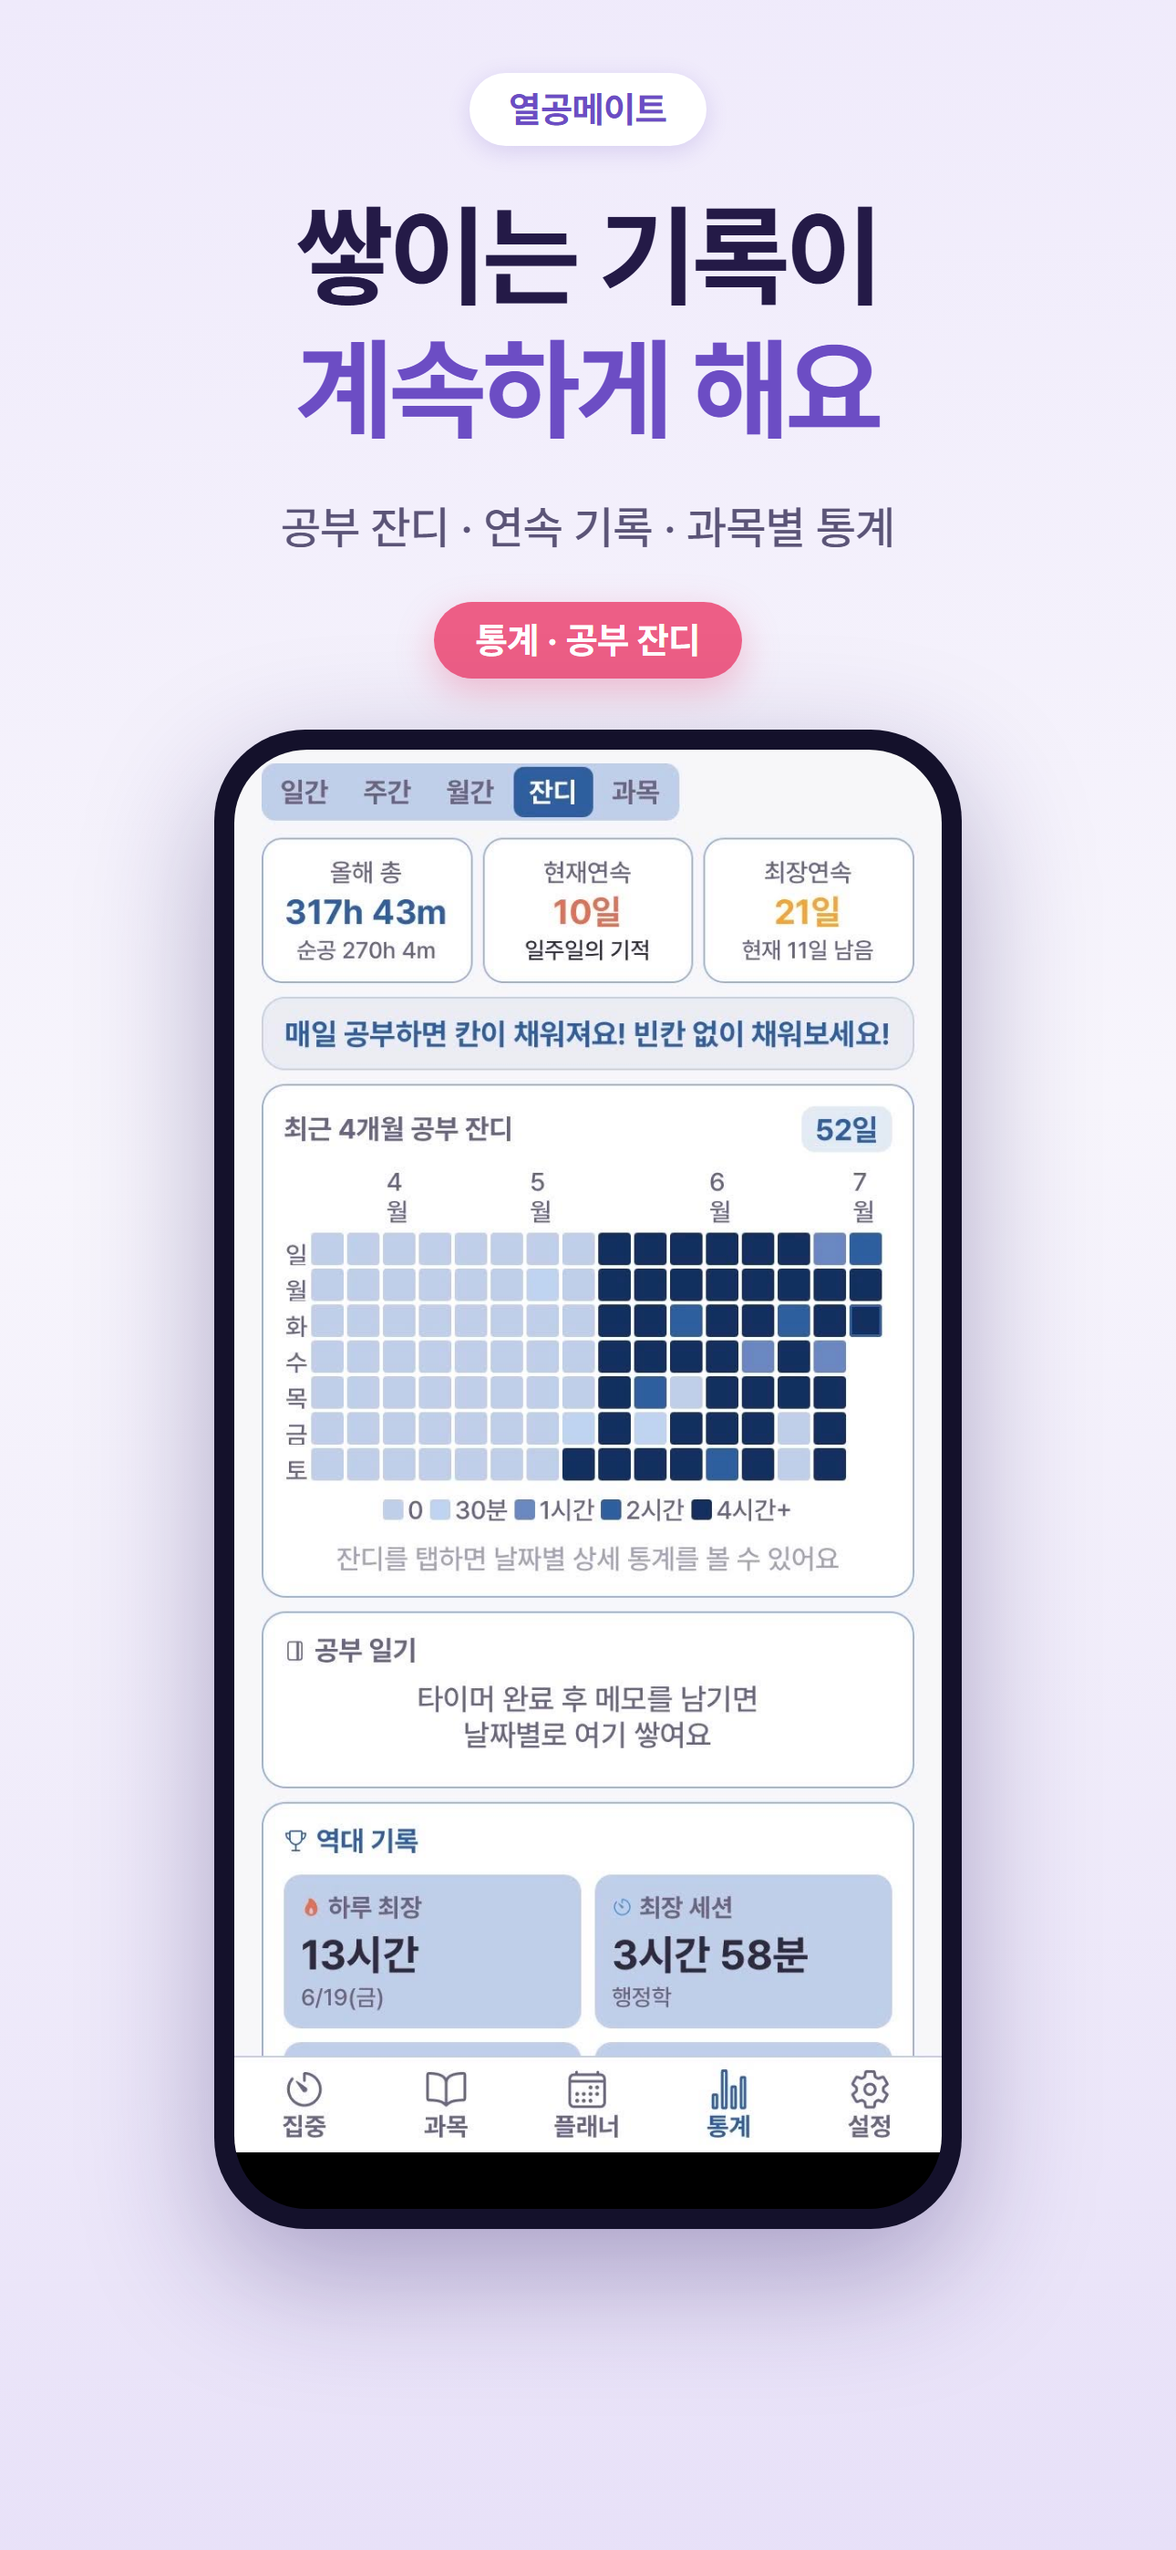
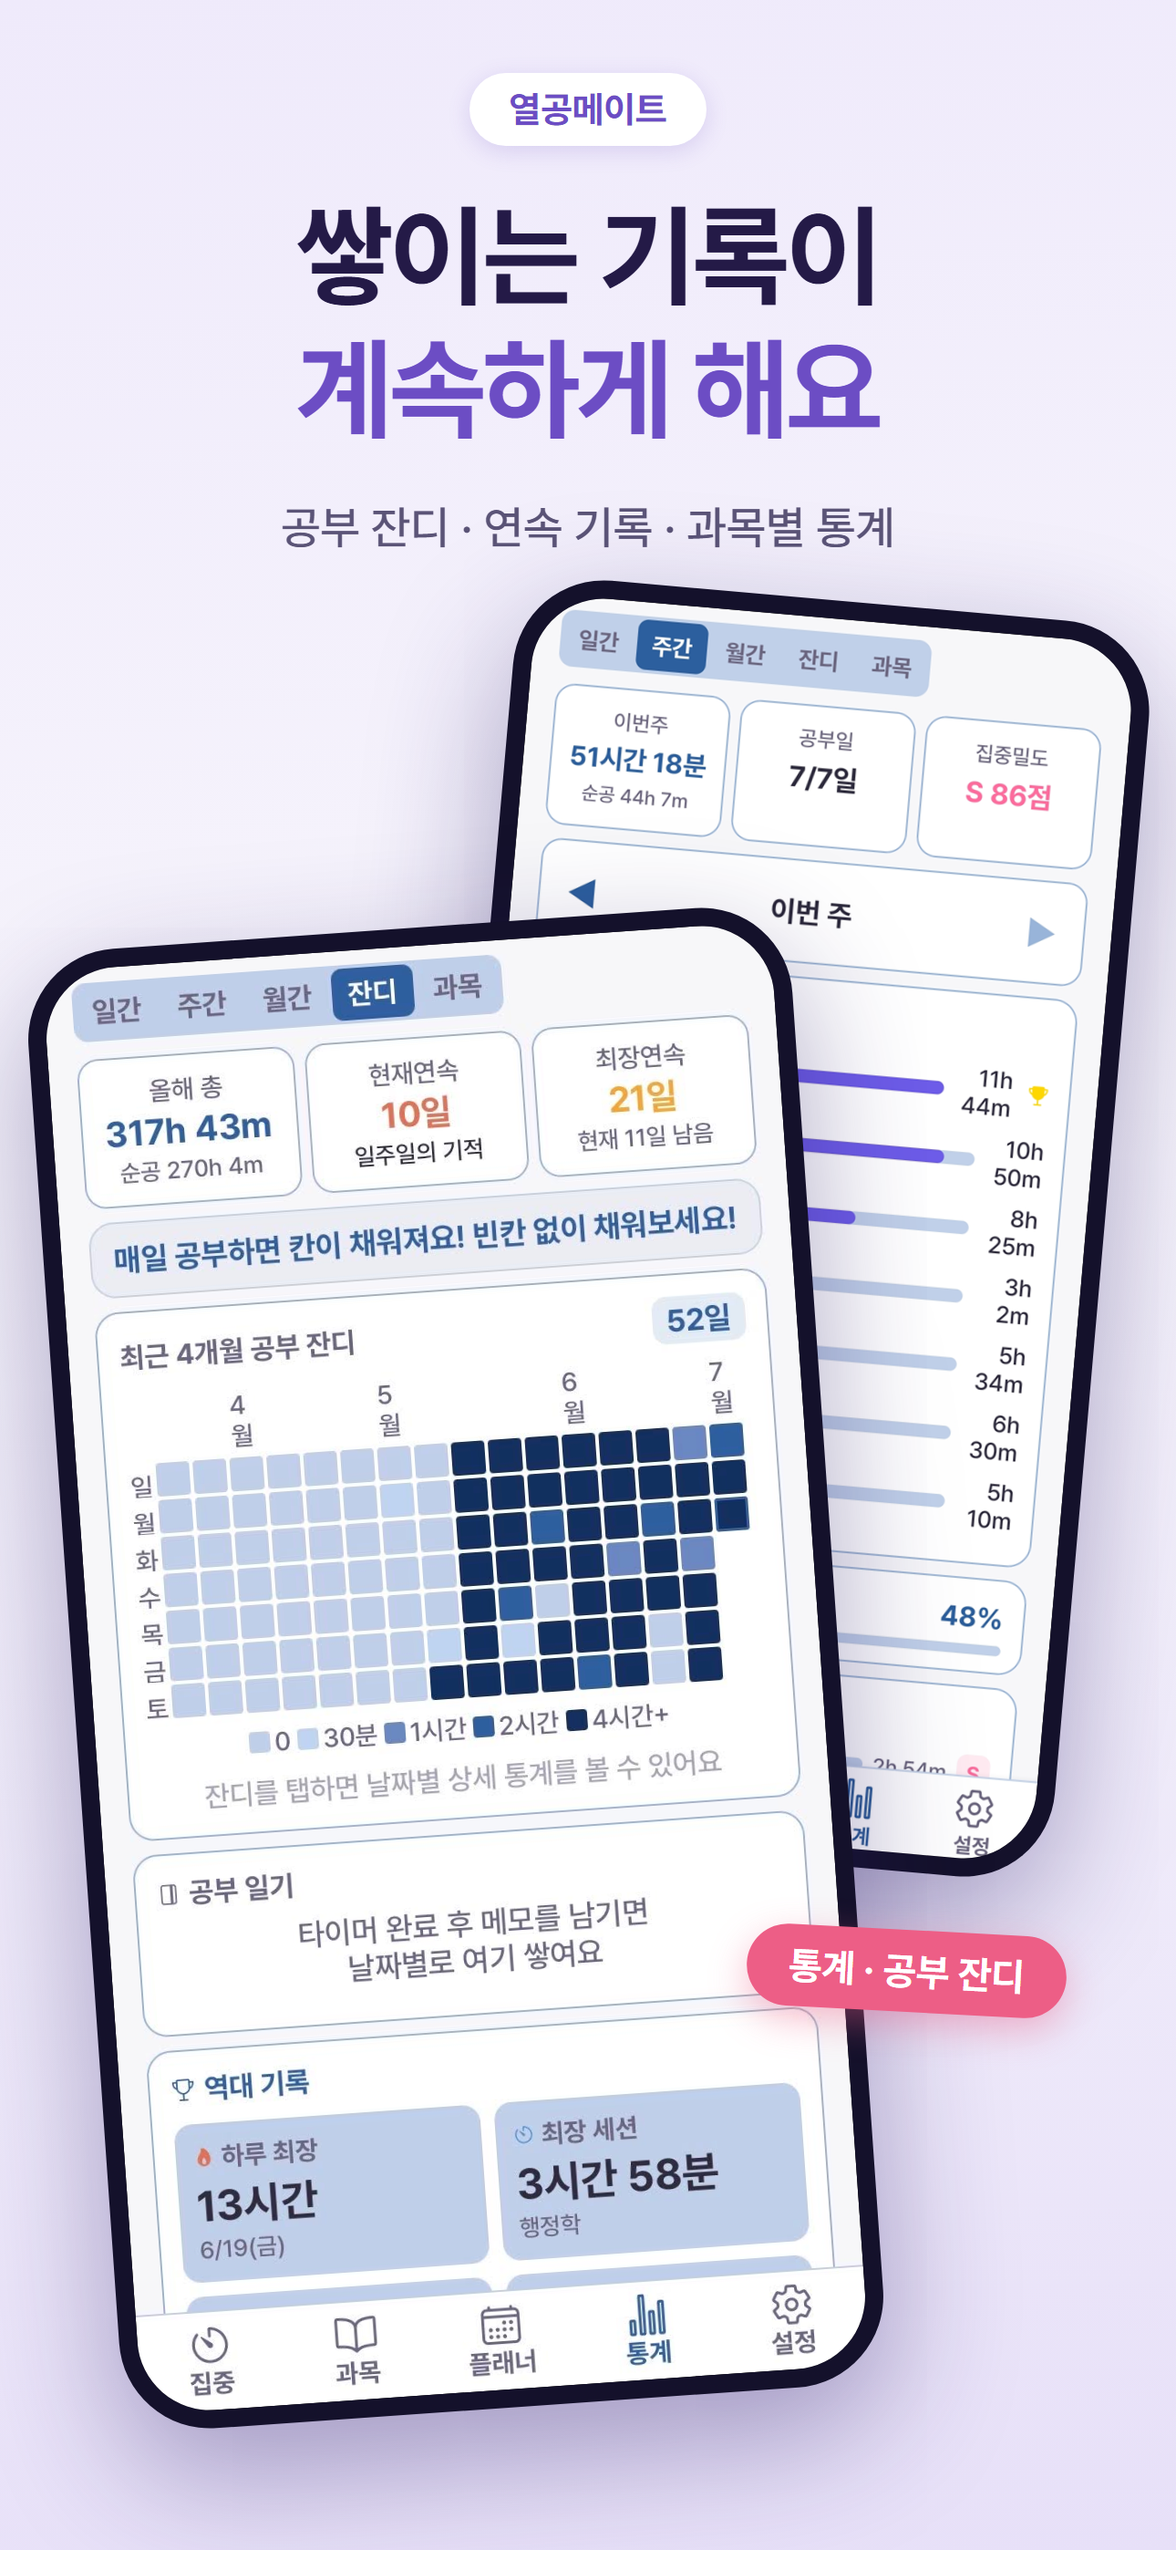
스토어 스크린샷: iOS 05~09를 2장 겹침 구도로 통일 (사용자 요청)
01~04만 겹침이고 05~09는 단독 폰이었다. 9장 전체를 같은 구도로 맞춘다.

각 장에 짝이 되는 두 번째 화면을 붙였다:
- 05 집중 탭 + 시험 D-Day/준비 할 일
- 06 공부 잔디 + 주간 통계 (부제의 '과목별 통계'가 이제 실제로 보인다)
- 07 홈 위젯 5종 + 잠금화면 위젯 ← 부제가 '홈 화면 · 잠금화면'이라 정확히 맞는 조합
- 08 타이머 종류 선택 + 실행 중 화면
- 09 공개 라운지 + 교실 테마 좌석 (좌석 도면이 여러 테마라는 게 드러난다)

구도는 shot3의 검증된 배치를 따랐다: 뒤 폰 right/rotate(5deg), 앞 폰
left/rotate(-4deg), 배지는 뒤 폰 아래에 절대 배치.
화면 높이는 캡처 비율로 계산해 레터박스나 잘림이 없게 했다(예: 800*2.034=1627).

★src_shot5~9는 iOS 전용이다★ — Play는 src_play5~8을 따로 쓰므로 이번 변경의
영향을 받지 않는다. 특히 07의 잠금화면 위젯 조합은 Play에 그 기능이 없으므로
src_play7.html로 가져가면 안 된다(주석으로 남김).

※재캡처 대기 항목은 그대로 남아 있다: 07의 'ㄹㄹ', 09의 '울트라집중' 좌석
태그, 06의 두부 문자 — 전부 앱 캡처 안에 박혀 있어 HTML로는 못 고친다.

diff --git a/screenshots/store_v2/src_shot7.html b/screenshots/store_v2/src_shot7.html
@@ -2,6 +2,9 @@
 <html>
 <head>
 <meta charset="utf-8">
+<!-- iOS 전용(Play는 src_play7.html). 2026-08-01: 단독 폰 → 2장 겹침으로 개편.
+     부제가 '홈 화면 · 잠금화면'이므로 홈 위젯 + 잠금화면 위젯을 함께 보여준다.
+     ※Play에는 잠금화면 위젯이 없으므로 이 조합을 src_play7.html로 가져가지 말 것 -->
 <style>
   @font-face { font-family: 'P'; src: url('file:///C:/suneung-timer-native/assets/fonts/Pretendard-Bold.ttf'); font-weight: 700; }
   @font-face { font-family: 'P'; src: url('file:///C:/suneung-timer-native/assets/fonts/Pretendard-Medium.ttf'); font-weight: 500; }
@@ -18,21 +21,33 @@
     color: #241A47; text-align: center; font-weight: 700; }
   h1 .accent { color: #6C4DC4; }
   .sub { margin-top: 40px; font-size: 50px; font-weight: 500; color: #5B5477; text-align: center; line-height: 1.5; }
-  .badge { margin-top: 44px; background: #ED5E86; color: #fff; font-size: 40px; font-weight: 700;
-    padding: 18px 46px; border-radius: 999px; box-shadow: 0 14px 40px rgba(237,94,134,0.35); }
-  .phone {
-    margin-top: 300px; width: 892px; border-radius: 100px; background: #14112B; padding: 22px;
-    box-shadow: 0 50px 140px rgba(40,25,100,0.34);
-  }
-  .screen { border-radius: 80px; overflow: hidden; width: 848px; height: 1390px; background: #6a4a8a; }
+  .stage { position: relative; width: 1290px; flex: 1; }
+  .phone { position: absolute; border-radius: 100px; background: #14112B; padding: 20px;
+    box-shadow: 0 50px 140px rgba(40,25,100,0.38); }
+  .screen { border-radius: 80px; overflow: hidden; background: #6a4a8a; }
   .screen img { width: 100%; display: block; }
+  /* 뒤: 잠금화면 위젯 (660*1.935 = 1277) */
+  .p-lock { right: 80px; top: 60px; transform: rotate(5deg); }
+  .p-lock .screen { width: 660px; height: 1277px; }
+  /* 앞: 홈 화면 위젯 5종 (800*1.638 = 1310) */
+  .p-home { left: 80px; top: 480px; transform: rotate(-4deg); }
+  .p-home .screen { width: 800px; height: 1310px; }
+  .badge {
+    position: absolute; right: 120px; top: 1470px;
+    background: #ED5E86; color: #fff; font-size: 42px; font-weight: 700;
+    padding: 20px 46px; border-radius: 999px; box-shadow: 0 14px 40px rgba(237,94,134,0.4);
+    transform: rotate(3deg);
+  }
 </style>
 </head>
 <body>
   <div class="brand">열공메이트</div>
   <h1>앱을 열지 않아도<br><span class="accent">공부 중</span></h1>
   <div class="sub">홈 화면 · 잠금화면 위젯 5종, 위젯에서 바로 시작</div>
-  <div class="badge">홈/잠금화면 위젯</div>
-  <div class="phone"><div class="screen"><img src="file:///C:/suneung-timer-native/screenshots/ios_widgets_home5.jpg"></div></div>
+  <div class="stage">
+    <div class="phone p-lock"><div class="screen"><img src="file:///C:/suneung-timer-native/screenshots/ios_lockscreen.jpg"></div></div>
+    <div class="phone p-home"><div class="screen"><img src="file:///C:/suneung-timer-native/screenshots/ios_widgets_home5.jpg"></div></div>
+    <div class="badge">홈/잠금화면 위젯</div>
+  </div>
 </body>
 </html>

diff --git a/screenshots/store_v2/src_shot9.html b/screenshots/store_v2/src_shot9.html
@@ -2,6 +2,8 @@
 <html>
 <head>
 <meta charset="utf-8">
+<!-- iOS 전용(Play에는 09번이 없다). 2026-08-01: 단독 폰 → 2장 겹침으로 개편.
+     좌석 도면 3테마 중 라운지 + 교실을 함께 보여 '테마가 여러 개'라는 걸 드러낸다 -->
 <style>
   @font-face { font-family: 'P'; src: url('file:///C:/suneung-timer-native/assets/fonts/Pretendard-Bold.ttf'); font-weight: 700; }
   @font-face { font-family: 'P'; src: url('file:///C:/suneung-timer-native/assets/fonts/Pretendard-Medium.ttf'); font-weight: 500; }
@@ -18,21 +20,33 @@
     color: #241A47; text-align: center; font-weight: 700; }
   h1 .accent { color: #6C4DC4; }
   .sub { margin-top: 40px; font-size: 50px; font-weight: 500; color: #5B5477; text-align: center; line-height: 1.5; }
-  .badge { margin-top: 44px; background: #ED5E86; color: #fff; font-size: 40px; font-weight: 700;
-    padding: 18px 46px; border-radius: 999px; box-shadow: 0 14px 40px rgba(237,94,134,0.35); }
-  .phone {
-    margin-top: 52px; width: 800px; border-radius: 100px; background: #14112B; padding: 22px;
-    box-shadow: 0 50px 140px rgba(40,25,100,0.34);
-  }
-  .screen { border-radius: 80px; overflow: hidden; width: 756px; height: 1620px; background: #000; }
+  .stage { position: relative; width: 1290px; flex: 1; }
+  .phone { position: absolute; border-radius: 100px; background: #14112B; padding: 20px;
+    box-shadow: 0 50px 140px rgba(40,25,100,0.38); }
+  .screen { border-radius: 80px; overflow: hidden; background: #000; }
   .screen img { width: 100%; display: block; }
+  /* 뒤: 교실 테마 좌석 (660*2.144 = 1415) */
+  .p-class { right: 80px; top: 30px; transform: rotate(5deg); }
+  .p-class .screen { width: 660px; height: 1415px; }
+  /* 앞: 공개 라운지 좌석 (800*2.144 = 1715) */
+  .p-lounge { left: 80px; top: 380px; transform: rotate(-4deg); }
+  .p-lounge .screen { width: 800px; height: 1715px; }
+  .badge {
+    position: absolute; right: 120px; top: 1560px;
+    background: #ED5E86; color: #fff; font-size: 42px; font-weight: 700;
+    padding: 20px 46px; border-radius: 999px; box-shadow: 0 14px 40px rgba(237,94,134,0.4);
+    transform: rotate(3deg);
+  }
 </style>
 </head>
 <body>
   <div class="brand">열공메이트</div>
   <h1>혼자여도 함께,<br><span class="accent">같이 공부해요</span></h1>
   <div class="sub">실시간 스터디룸에서 좌석에 앉아 함께 집중</div>
-  <div class="badge">실시간 스터디룸</div>
-  <div class="phone"><div class="screen"><img src="file:///C:/suneung-timer-native/screenshots/cap-studyroom-lounge.png"></div></div>
+  <div class="stage">
+    <div class="phone p-class"><div class="screen"><img src="file:///C:/suneung-timer-native/screenshots/cap-studyroom-class.png"></div></div>
+    <div class="phone p-lounge"><div class="screen"><img src="file:///C:/suneung-timer-native/screenshots/cap-studyroom-lounge.png"></div></div>
+    <div class="badge">실시간 스터디룸</div>
+  </div>
 </body>
 </html>

diff --git a/screenshots/store_v2/src_shot5.html b/screenshots/store_v2/src_shot5.html
@@ -2,6 +2,7 @@
 <html>
 <head>
 <meta charset="utf-8">
+<!-- iOS 전용(Play는 src_play5.html). 2026-08-01: 단독 폰 → 2장 겹침으로 개편 -->
 <style>
   @font-face { font-family: 'P'; src: url('file:///C:/suneung-timer-native/assets/fonts/Pretendard-Bold.ttf'); font-weight: 700; }
   @font-face { font-family: 'P'; src: url('file:///C:/suneung-timer-native/assets/fonts/Pretendard-Medium.ttf'); font-weight: 500; }
@@ -18,21 +19,33 @@
     color: #241A47; text-align: center; font-weight: 700; }
   h1 .accent { color: #6C4DC4; }
   .sub { margin-top: 40px; font-size: 50px; font-weight: 500; color: #5B5477; text-align: center; line-height: 1.5; }
-  .badge { margin-top: 44px; background: #ED5E86; color: #fff; font-size: 40px; font-weight: 700;
-    padding: 18px 46px; border-radius: 999px; box-shadow: 0 14px 40px rgba(237,94,134,0.35); }
-  .phone {
-    margin-top: 56px; width: 820px; border-radius: 100px; background: #14112B; padding: 22px;
-    box-shadow: 0 50px 140px rgba(40,25,100,0.34);
-  }
-  .screen { border-radius: 80px; overflow: hidden; width: 776px; height: 1600px; background: #000; }
+  .stage { position: relative; width: 1290px; flex: 1; }
+  .phone { position: absolute; border-radius: 100px; background: #14112B; padding: 20px;
+    box-shadow: 0 50px 140px rgba(40,25,100,0.38); }
+  .screen { border-radius: 80px; overflow: hidden; background: #000; }
   .screen img { width: 100%; display: block; }
+  /* 뒤: 시험 D-Day + 준비 할 일 (660*2.034 = 1342 — 캡처를 잘리지 않게) */
+  .p-dday { right: 80px; top: 40px; transform: rotate(5deg); }
+  .p-dday .screen { width: 660px; height: 1342px; }
+  /* 앞: 집중 탭 (타이머 + D-Day + 오늘의 계획). 800*2.034 = 1627 */
+  .p-focus { left: 80px; top: 400px; transform: rotate(-4deg); }
+  .p-focus .screen { width: 800px; height: 1627px; }
+  .badge {
+    position: absolute; right: 120px; top: 1500px;
+    background: #ED5E86; color: #fff; font-size: 42px; font-weight: 700;
+    padding: 20px 46px; border-radius: 999px; box-shadow: 0 14px 40px rgba(237,94,134,0.4);
+    transform: rotate(3deg);
+  }
 </style>
 </head>
 <body>
   <div class="brand">열공메이트</div>
   <h1>수능까지,<br><span class="accent">오늘 할 만큼만</span></h1>
   <div class="sub">시험일 D-Day와 오늘의 계획을 한 화면에서</div>
-  <div class="badge">D-Day · 오늘의 계획</div>
-  <div class="phone"><div class="screen"><img src="file:///C:/suneung-timer-native/screenshots/cap-focus-tab.png"></div></div>
+  <div class="stage">
+    <div class="phone p-dday"><div class="screen"><img src="file:///C:/suneung-timer-native/screenshots/cap-dday.png"></div></div>
+    <div class="phone p-focus"><div class="screen"><img src="file:///C:/suneung-timer-native/screenshots/cap-focus-tab.png"></div></div>
+    <div class="badge">D-Day · 오늘의 계획</div>
+  </div>
 </body>
 </html>

diff --git a/screenshots/store_v2/src_shot8.html b/screenshots/store_v2/src_shot8.html
@@ -2,6 +2,7 @@
 <html>
 <head>
 <meta charset="utf-8">
+<!-- iOS 전용(Play는 src_play8.html). 2026-08-01: 단독 폰 → 2장 겹침으로 개편 -->
 <style>
   @font-face { font-family: 'P'; src: url('file:///C:/suneung-timer-native/assets/fonts/Pretendard-Bold.ttf'); font-weight: 700; }
   @font-face { font-family: 'P'; src: url('file:///C:/suneung-timer-native/assets/fonts/Pretendard-Medium.ttf'); font-weight: 500; }
@@ -18,21 +19,33 @@
     color: #241A47; text-align: center; font-weight: 700; }
   h1 .accent { color: #6C4DC4; }
   .sub { margin-top: 40px; font-size: 50px; font-weight: 500; color: #5B5477; text-align: center; line-height: 1.5; }
-  .badge { margin-top: 44px; background: #ED5E86; color: #fff; font-size: 40px; font-weight: 700;
-    padding: 18px 46px; border-radius: 999px; box-shadow: 0 14px 40px rgba(237,94,134,0.35); }
-  .phone {
-    margin-top: 56px; width: 820px; border-radius: 100px; background: #14112B; padding: 22px;
-    box-shadow: 0 50px 140px rgba(40,25,100,0.34);
-  }
-  .screen { border-radius: 80px; overflow: hidden; width: 776px; height: 1600px; background: #000; }
+  .stage { position: relative; width: 1290px; flex: 1; }
+  .phone { position: absolute; border-radius: 100px; background: #14112B; padding: 20px;
+    box-shadow: 0 50px 140px rgba(40,25,100,0.38); }
+  .screen { border-radius: 80px; overflow: hidden; background: #000; }
   .screen img { width: 100%; display: block; }
+  /* 뒤: 타이머 실행 중 (660*2.034 = 1342) */
+  .p-run { right: 80px; top: 40px; transform: rotate(5deg); }
+  .p-run .screen { width: 660px; height: 1342px; }
+  /* 앞: 타이머 종류 선택 (800*2.034 = 1627) */
+  .p-modes { left: 80px; top: 400px; transform: rotate(-4deg); }
+  .p-modes .screen { width: 800px; height: 1627px; }
+  .badge {
+    position: absolute; right: 120px; top: 1500px;
+    background: #ED5E86; color: #fff; font-size: 42px; font-weight: 700;
+    padding: 20px 46px; border-radius: 999px; box-shadow: 0 14px 40px rgba(237,94,134,0.4);
+    transform: rotate(3deg);
+  }
 </style>
 </head>
 <body>
   <div class="brand">열공메이트</div>
   <h1>공부 스타일대로,<br><span class="accent">골라 쓰는 타이머</span></h1>
   <div class="sub">카운트다운 · 스톱워치 · 뽀모도로 · 연속 루틴 · 랩</div>
-  <div class="badge">5가지 타이머</div>
-  <div class="phone"><div class="screen"><img src="file:///C:/suneung-timer-native/screenshots/cap-timer-modes.png"></div></div>
+  <div class="stage">
+    <div class="phone p-run"><div class="screen"><img src="file:///C:/suneung-timer-native/screenshots/cap-focus-run.png"></div></div>
+    <div class="phone p-modes"><div class="screen"><img src="file:///C:/suneung-timer-native/screenshots/cap-timer-modes.png"></div></div>
+    <div class="badge">5가지 타이머</div>
+  </div>
 </body>
 </html>

diff --git a/screenshots/store_v2/src_shot6.html b/screenshots/store_v2/src_shot6.html
@@ -2,6 +2,7 @@
 <html>
 <head>
 <meta charset="utf-8">
+<!-- iOS 전용(Play는 src_play6.html). 2026-08-01: 단독 폰 → 2장 겹침으로 개편 -->
 <style>
   @font-face { font-family: 'P'; src: url('file:///C:/suneung-timer-native/assets/fonts/Pretendard-Bold.ttf'); font-weight: 700; }
   @font-face { font-family: 'P'; src: url('file:///C:/suneung-timer-native/assets/fonts/Pretendard-Medium.ttf'); font-weight: 500; }
@@ -18,21 +19,33 @@
     color: #241A47; text-align: center; font-weight: 700; }
   h1 .accent { color: #6C4DC4; }
   .sub { margin-top: 40px; font-size: 50px; font-weight: 500; color: #5B5477; text-align: center; line-height: 1.5; }
-  .badge { margin-top: 44px; background: #ED5E86; color: #fff; font-size: 40px; font-weight: 700;
-    padding: 18px 46px; border-radius: 999px; box-shadow: 0 14px 40px rgba(237,94,134,0.35); }
-  .phone {
-    margin-top: 56px; width: 820px; border-radius: 100px; background: #14112B; padding: 22px;
-    box-shadow: 0 50px 140px rgba(40,25,100,0.34);
-  }
-  .screen { border-radius: 80px; overflow: hidden; width: 776px; height: 1600px; background: #000; }
+  .stage { position: relative; width: 1290px; flex: 1; }
+  .phone { position: absolute; border-radius: 100px; background: #14112B; padding: 20px;
+    box-shadow: 0 50px 140px rgba(40,25,100,0.38); }
+  .screen { border-radius: 80px; overflow: hidden; background: #000; }
   .screen img { width: 100%; display: block; }
+  /* 뒤: 주간 통계 (660*2.034 = 1342) */
+  .p-week { right: 80px; top: 40px; transform: rotate(5deg); }
+  .p-week .screen { width: 660px; height: 1342px; }
+  /* 앞: 공부 잔디 (800*1.982 = 1586) */
+  .p-grass { left: 80px; top: 400px; transform: rotate(-4deg); }
+  .p-grass .screen { width: 800px; height: 1586px; }
+  .badge {
+    position: absolute; right: 120px; top: 1500px;
+    background: #ED5E86; color: #fff; font-size: 42px; font-weight: 700;
+    padding: 20px 46px; border-radius: 999px; box-shadow: 0 14px 40px rgba(237,94,134,0.4);
+    transform: rotate(3deg);
+  }
 </style>
 </head>
 <body>
   <div class="brand">열공메이트</div>
   <h1>쌓이는 기록이<br><span class="accent">계속하게 해요</span></h1>
   <div class="sub">공부 잔디 · 연속 기록 · 과목별 통계</div>
-  <div class="badge">통계 · 공부 잔디</div>
-  <div class="phone"><div class="screen"><img src="file:///C:/suneung-timer-native/screenshots/stat-grass.jpg"></div></div>
+  <div class="stage">
+    <div class="phone p-week"><div class="screen"><img src="file:///C:/suneung-timer-native/screenshots/stat-weekly.png"></div></div>
+    <div class="phone p-grass"><div class="screen"><img src="file:///C:/suneung-timer-native/screenshots/stat-grass.jpg"></div></div>
+    <div class="badge">통계 · 공부 잔디</div>
+  </div>
 </body>
 </html>
